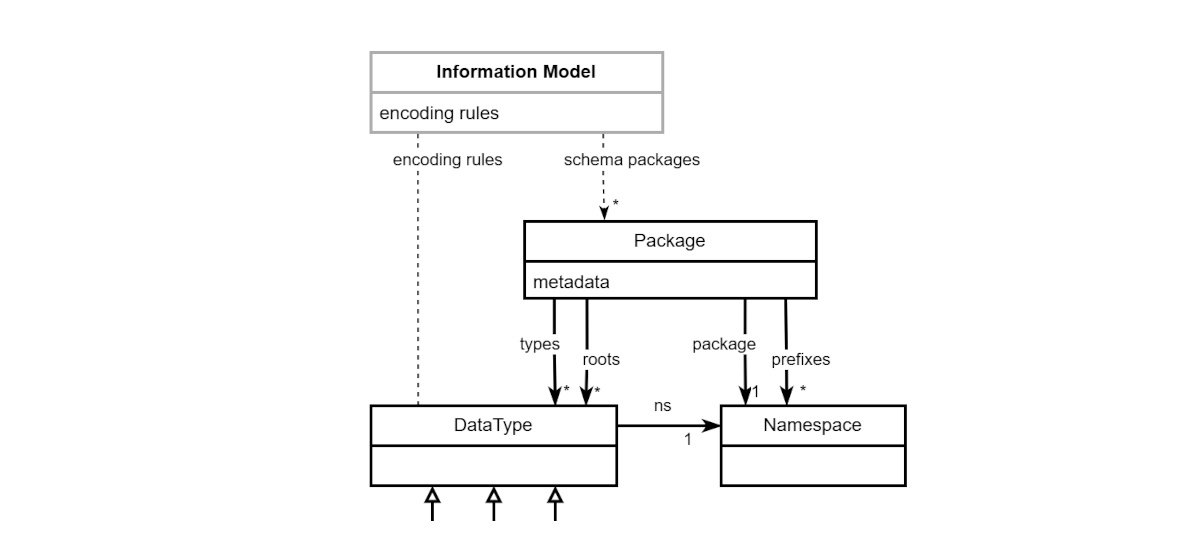
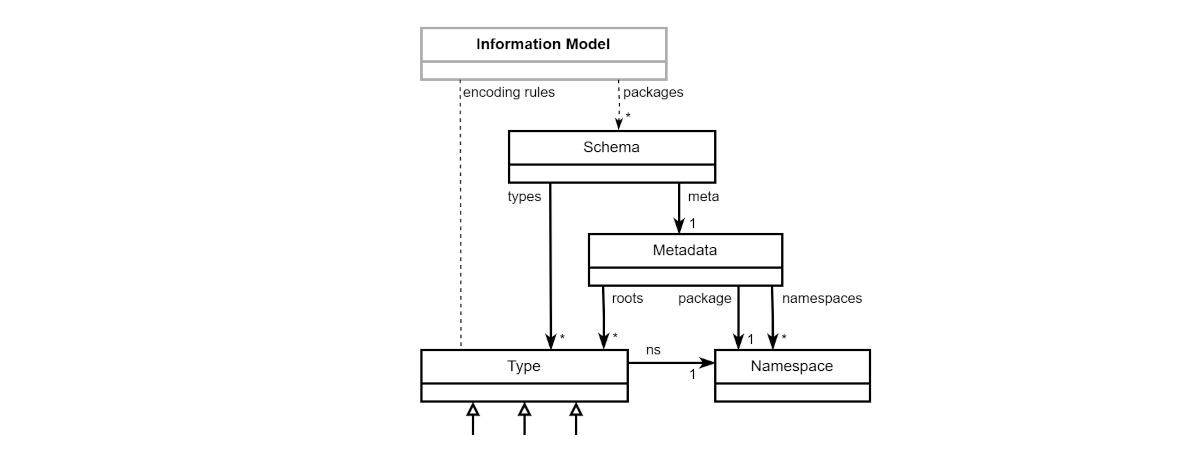
fix errata for publication

Changed region(s): [[0.3083, 0.0609, 0.7708, 0.9435]]

diff --git a/jadn-v2.0.md b/jadn-v2.0.md
@@ -8,20 +8,20 @@
 
 &nbsp;
 
-#### This stage:
-https://docs.oasis-open.org/openc2/jadn/v1.0/cs01/jadn-v1.0-cs01.md (Authoritative) \
-https://docs.oasis-open.org/openc2/jadn/v1.0/cs01/jadn-v1.0-cs01.html \
-https://docs.oasis-open.org/openc2/jadn/v1.0/cs01/jadn-v1.0-cs01.pdf
+#### This version:
+https://docs.oasis-open.org/openc2/jadn/v2.0/csd01/jadn-v2.0-csd01.md (Authoritative) \
+https://docs.oasis-open.org/openc2/jadn/v2.0/csd01/jadn-v2.0-csd01.html \
+https://docs.oasis-open.org/openc2/jadn/v2.0/csd01/jadn-v2.0-csd01.pdf
 
-#### Previous stage:
-https://docs.oasis-open.org/openc2/jadn/v1.0/csd02/jadn-v1.0-csd02.md (Authoritative) \
-https://docs.oasis-open.org/openc2/jadn/v1.0/csd02/jadn-v1.0-csd02.html \
-https://docs.oasis-open.org/openc2/jadn/v1.0/csd02/jadn-v1.0-csd02.pdf
-
-#### Latest stage:
+#### Previous version:
 https://docs.oasis-open.org/openc2/jadn/v1.0/jadn-v1.0.md (Authoritative) \
 https://docs.oasis-open.org/openc2/jadn/v1.0/jadn-v1.0.html \
 https://docs.oasis-open.org/openc2/jadn/v1.0/jadn-v1.0.pdf
+
+#### Latest version:
+https://docs.oasis-open.org/openc2/jadn/v2.0/jadn-v2.0.md (Authoritative) \
+https://docs.oasis-open.org/openc2/jadn/v2.0/jadn-v2.0.html \
+https://docs.oasis-open.org/openc2/jadn/v2.0/jadn-v2.0.pdf
 
 #### Technical Committee:
 [OASIS Open Command and Control (OpenC2) TC](https://www.oasis-open.org/committees/openc2/)
@@ -35,13 +35,13 @@ David Kemp (d.kemp@cyber.nsa.gov), [National Security Agency](https://www.nsa.go
 
 #### Additional artifacts:
 This prose specification is one component of a Work Product that also includes:
-* JSON schema for JADN documents: https://docs.oasis-open.org/openc2/jadn/v2.0/csd01/artifacts/jadn_v2.0_schema.json
 * JADN metaschema for JADN documents:
   * JADN format: https://docs.oasis-open.org/openc2/jadn/v2.0/csd01/artifacts/jadn_v2.0_schema.jadn
   * JIDL format: https://docs.oasis-open.org/openc2/jadn/v2.0/csd01/artifacts/jadn_v2.0_schema.jidl
 * JADN schema for Examples:
   * JADN format: https://docs.oasis-open.org/openc2/jadn/v2.0/csd01/artifacts/v2.0_examples.jadn
   * JIDL format: https://docs.oasis-open.org/openc2/jadn/v2.0/csd01/artifacts/v2.0_examples.jidl
+* JSON schema for JADN documents: https://docs.oasis-open.org/openc2/jadn/v2.0/csd01/artifacts/jadn_v2.0_schema.json
 
 #### Abstract:
 An Information Model (IM) defines the meaning and essential content of data used in computing independently
@@ -87,10 +87,10 @@ The key words "MUST", "MUST NOT", "REQUIRED", "SHALL", "SHALL NOT", "SHOULD", "S
 #### Citation format:
 When referencing this specification the following citation format should be used:
 
-**[JADN-v1.0]**  
-_JSON Abstract Data Notation Version 1.0_. Edited by David Kemp. 17 August 2021. 
-OASIS Committee Specification 01. https://docs.oasis-open.org/openc2/jadn/v1.0/cs01/jadn-v1.0-cs01.html. 
-Latest stage: https://docs.oasis-open.org/openc2/jadn/v1.0/jadn-v1.0.html.
+**[JADN-v2.0]**  
+_JSON Abstract Data Notation Version 2.0_. Edited by David Kemp. 19 February 2025. 
+OASIS Committee Specification Draft 01. https://docs.oasis-open.org/openc2/jadn/v2.0/csd01/jadn-v2.0-csd01.html. 
+Latest version: https://docs.oasis-open.org/openc2/jadn/v2.0/jadn-v2.0.html.
 
 -------
 
@@ -2115,7 +2115,7 @@ Rennau, Hans-Juergen, *"Combining graph and tree"*, XML Prague 2018, https://arc
 ###### [INFORMATION MODELING]
 Lee, Y. Tina, *"Information Modeling: From Design to Implementation"*, IEEE Transactions on Robotics and Automation, 1999, https://tsapps.nist.gov/publication/get_pdf.cfm?pub_id=821265.
 ###### [JADN-CN]
-OASIS, *"Information Modeling with JADN"*, https://docs.oasis-open.org/openc2/imjadn/v1.0/imjadn-v1.0.md
+OASIS, *"Information Modeling with JADN"*, https://docs.oasis-open.org/openc2/imjadn/v2.0/imjadn-v2.0.md
 ###### [ORDER]
 LaFontaine, Robin, *"Element order is always important in XML, except when it isn't"*, Balisage: The Markup Conference, 2021, https://www.balisage.net/Proceedings/vol26/html/LaFontaine01/BalisageVol26-LaFontaine01.html
 ###### [PROTO]

diff --git a/README.md b/README.md
@@ -36,7 +36,7 @@ than typical open source software project repositories:
   this branch is essentially empty
 * The **Working** branch is where all work-in-progress content is
   captured, and is the place to go for the [current working
-  version](https://github.com/oasis-tcs/openc2-jadn/blob/working/jadn-v1.0-wd02.md)
+  version](https://github.com/oasis-tcs/openc2-jadn/blob/working/jadn-v2.0.md)
   of this work product
 
 More information about the TC's repository organizing conventions
@@ -87,7 +87,7 @@ created and the associated CSDs mature.
 
 ###  :envelope_with_arrow: Contact :envelope_with_arrow:
 <div>
-<p>Please send questions or comments about <a href="https://www.oasis-open.org/resources/tcadmin/github-repositories-for-oasis-tc-members-chartered-work">OASIS TC GitHub repositories</a> to the <a href="mailto:tc-admin@oasis-open.org">OASIS TC Administrator</a>.  For questions about content in this repository, please contact the TC Chair or Co-Chairs as listed on the the <tc short name> TC's <a href="https://www.oasis-open.org/committees/tc_home.php?wg_abbrev=openc2">home page</a>.</p>
+<p>Please send questions or comments about <a href="https://www.oasis-open.org/resources/tcadmin/github-repositories-for-oasis-tc-members-chartered-work">OASIS TC GitHub repositories</a> to the <a href="mailto:tc-admin@oasis-open.org">OASIS TC Administrator</a>.  For questions about content in this repository, please contact the TC Chair or Co-Chairs as listed on the OpenC2 TC's <a href="https://www.oasis-open.org/committees/tc_home.php?wg_abbrev=openc2">home page</a>.</p>
 </div>
 
 
